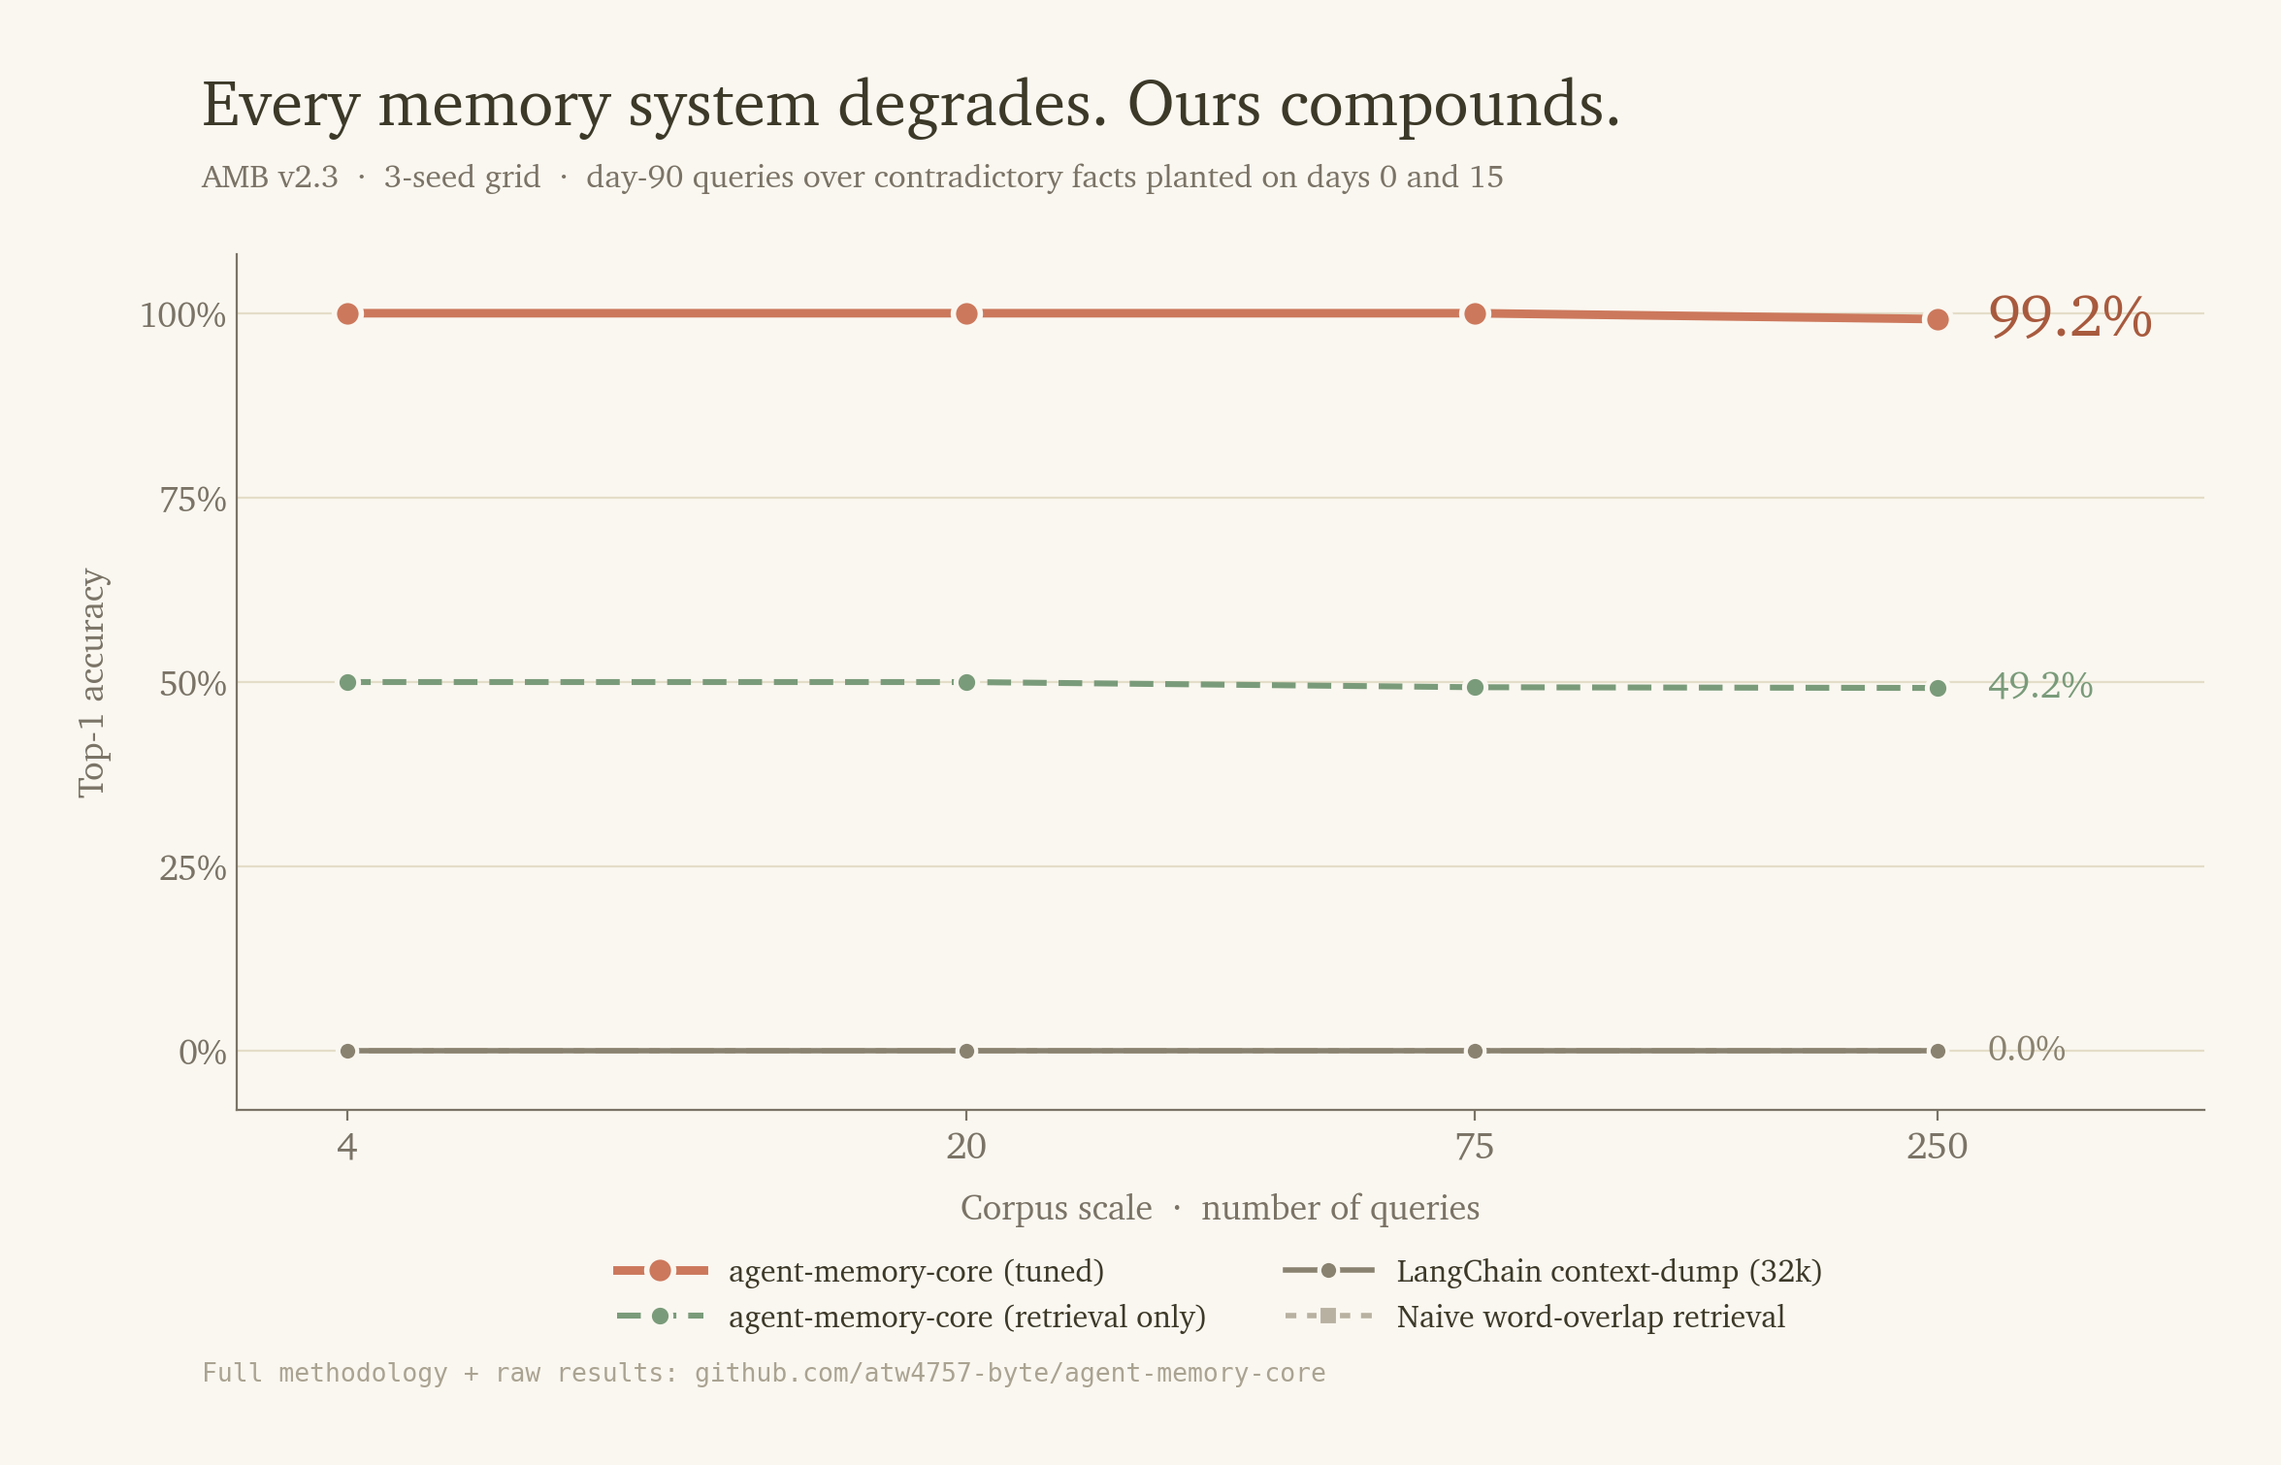
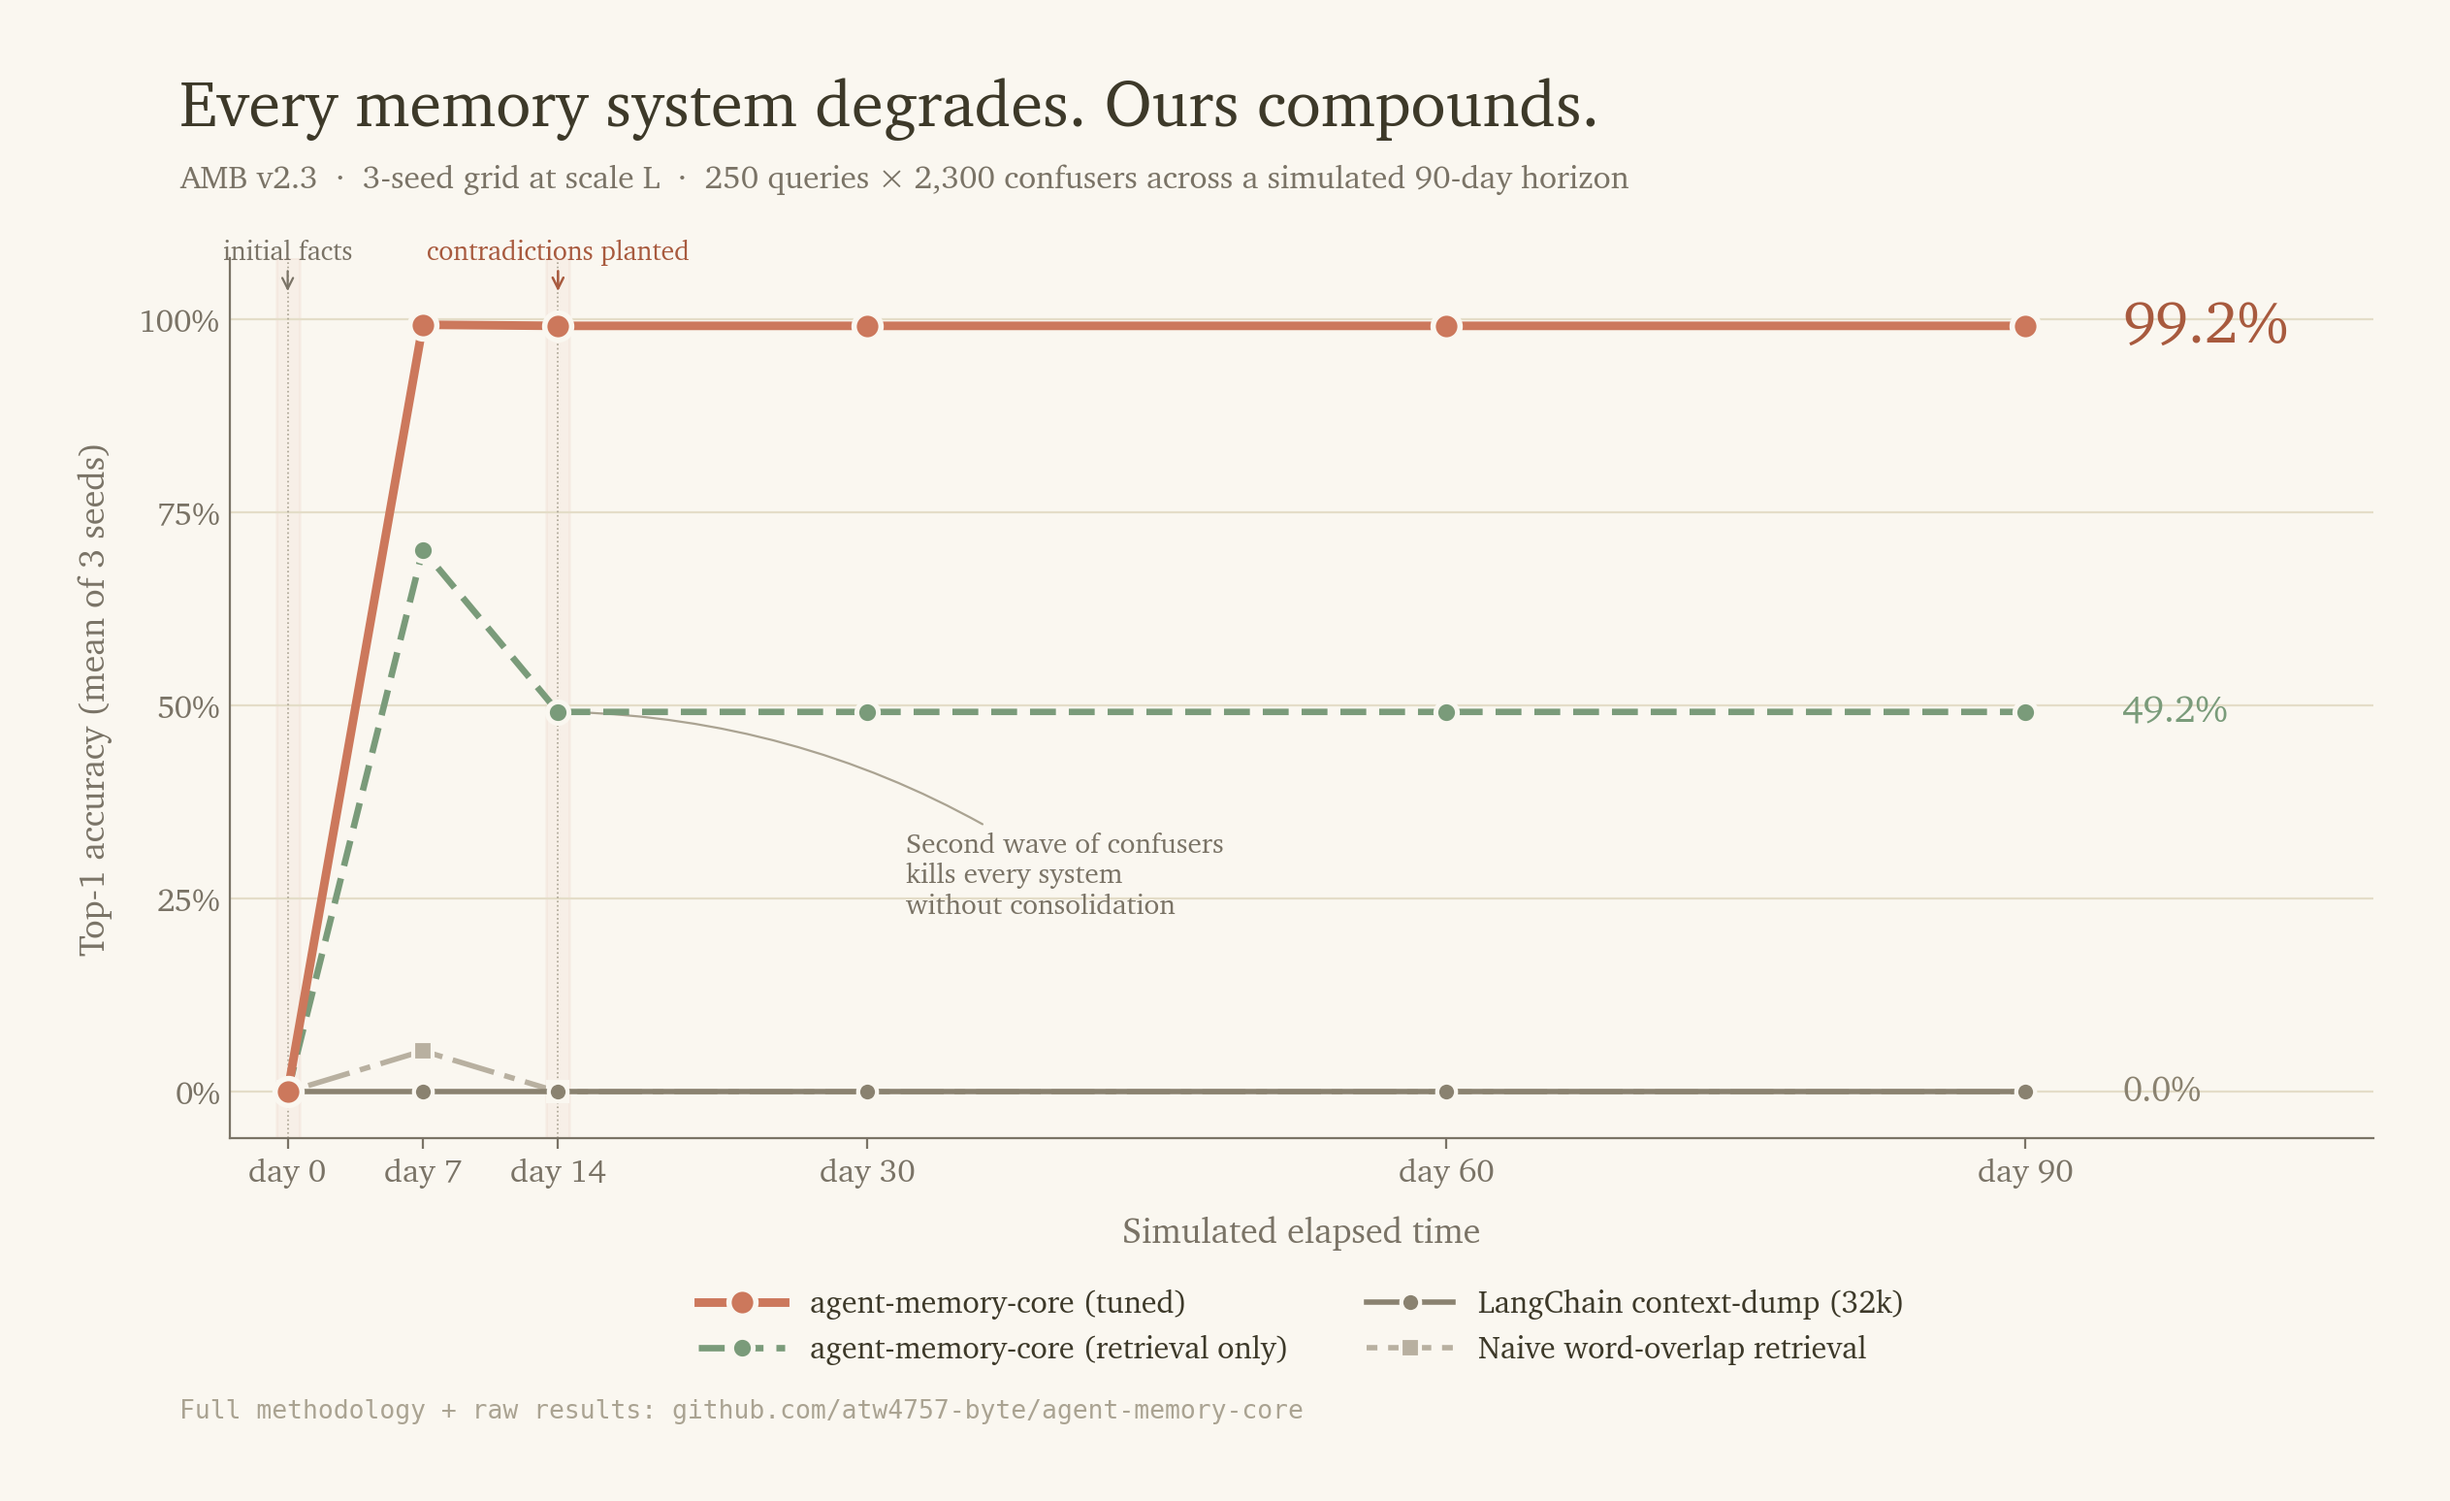
AMB v2.3 chart: switch to time-series (day 0 → 90)
Replaces the flat corpus-scale comparison with the real degradation
story: top-1 accuracy across a simulated 90-day horizon, averaged over
3 seeds at scale L. Event shading + annotations mark the contradiction
waves on day 0 and day 14.

Narrative now matches the headline:
- AMC-tuned: 0 → 99.3 → 99.2% (rises, holds through day 90)
- AMC-stock: 0 → 70 → 49.2% (rises, then collapses when confusers
  land at day 14, never recovers)
- LangChain / Naive: 0% throughout (never resolve any contradiction)

Updates: hero numbers now contrast tuned vs stock vs baselines (instead
of three scale-invariant stats); bench-claim narrates the day-14 pivot;
alt text describes the time series.

diff --git a/amc/index.html b/amc/index.html
@@ -269,21 +269,21 @@
       Ours <em>compounds</em>.
     </h1>
     <p class="lede">
-      The Agentic Memory Benchmark v2.3 places a contradictory fact, waits ninety simulated days, then asks which system still knows the truth. We ran it across four corpus scales and three seeds. The result is the chart below — and it does not soften with scale.
+      The Agentic Memory Benchmark v2.3 plants a contradictory fact on day zero, plants a second wave on day fourteen, then watches every memory system across a simulated ninety-day horizon. Below: what happens to each.
     </p>
 
     <div class="hero-numbers">
       <div class="hero-num">
         <div class="hero-num-val accent">99.2%</div>
-        <div class="hero-num-label">top-1 accuracy @ 250-query scale</div>
+        <div class="hero-num-label">top-1 at day 90 &mdash; ours, with consolidation</div>
+      </div>
+      <div class="hero-num">
+        <div class="hero-num-val">49.2%</div>
+        <div class="hero-num-label">top-1 at day 90 &mdash; same retriever, no consolidation</div>
       </div>
       <div class="hero-num">
         <div class="hero-num-val">0.0%</div>
-        <div class="hero-num-label">every non-retriever baseline</div>
-      </div>
-      <div class="hero-num">
-        <div class="hero-num-val">3&thinsp;seeds</div>
-        <div class="hero-num-label">std 0.000 across every cell</div>
+        <div class="hero-num-label">every non-retriever baseline, never recovers</div>
       </div>
     </div>
 
@@ -293,9 +293,9 @@
     </div>
 
     <figure class="hero-chart reveal">
-      <img src="/images/amb-v23-degradation.png" alt="AMB v2.3 — Top-1 accuracy across corpus scales (4 → 250 queries). agent-memory-core tuned holds 99.2%; every non-retriever baseline scores 0.0%.">
+      <img src="/images/amb-v23-degradation.png" alt="AMB v2.3 — Top-1 accuracy across a simulated 90-day horizon. agent-memory-core tuned holds at 99.2%; retrieval-only collapses to 49.2% when the second wave of contradictions is planted on day 14; every non-retriever baseline never recovers from zero.">
       <figcaption class="hero-chart-caption">
-        Top-1 accuracy vs corpus scale · AMB v2.3 · 3-seed mean (42, 43, 44)
+        Top-1 accuracy over simulated time · AMB v2.3 · 3-seed mean (42, 43, 44) at scale L (250 queries × 2,300 confusers)
       </figcaption>
     </figure>
   </div>
@@ -313,7 +313,7 @@
         </p>
       </div>
       <blockquote class="bench-claim">
-        Across corpus scales from 4 to 250 queries, embedding-based memory with supersede-aware consolidation holds top-1 accuracy at <strong>≥0.99</strong>. Every non-retriever baseline scores <strong>0.000</strong>. Word-overlap retrieval scores <strong>0.28 quality</strong>. Context-dump, even at 32k tokens, starts losing recall at large scale.
+        By day 14, the second wave of contradictions has landed. Retrieval-only memory drops from <strong>70%</strong> top-1 to <strong>49%</strong> and never recovers. Supersede-aware consolidation holds at <strong>99.2%</strong> and stays there through day 90. Every context-dump and word-overlap baseline sits at <strong>0.0%</strong> from day 0 to day 90 — they never resolve a single contradiction.
       </blockquote>
     </div>
 
